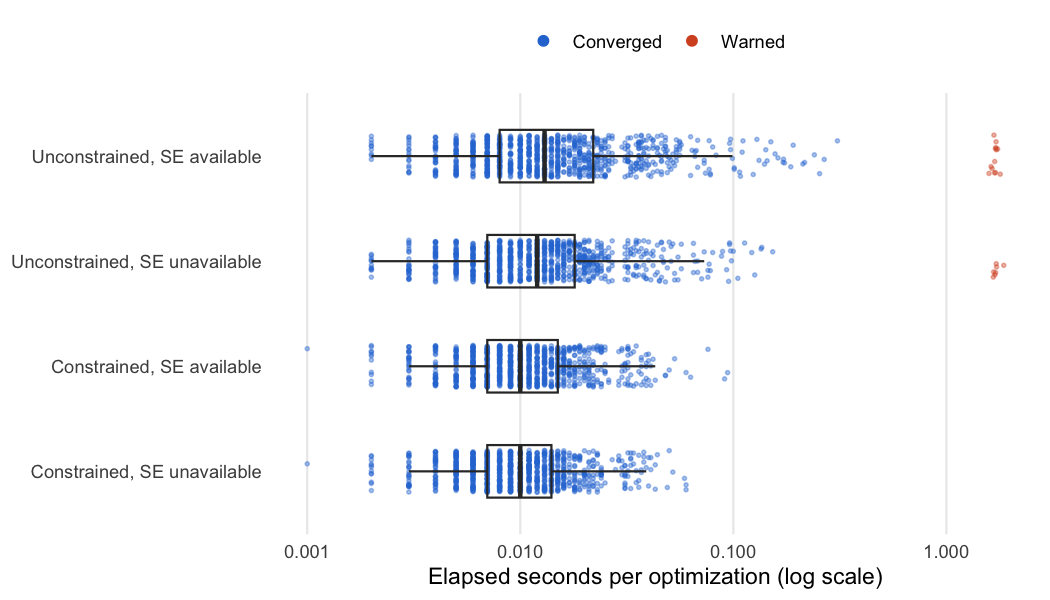
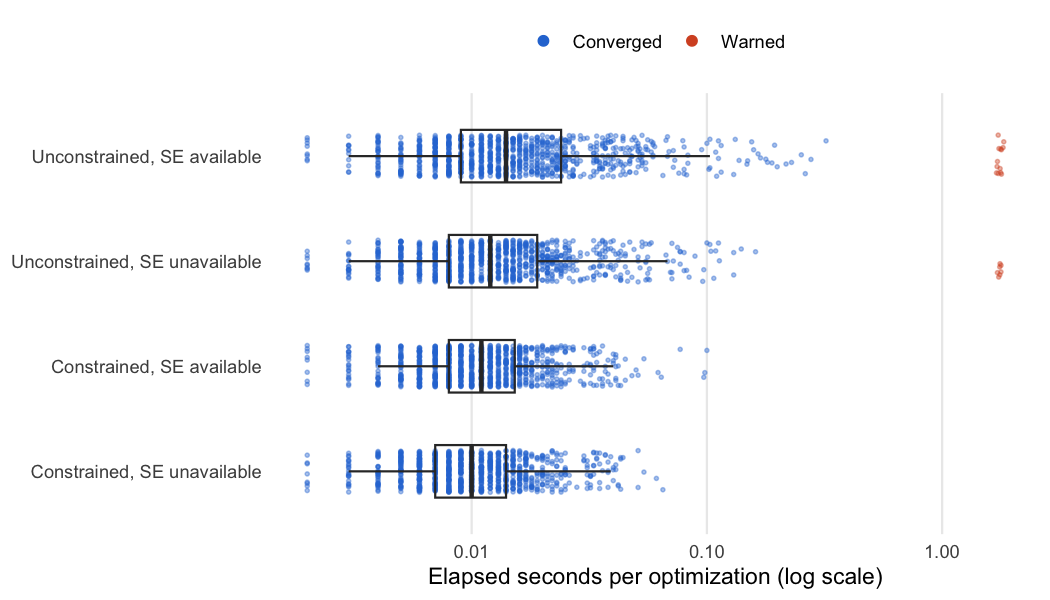
links and vignettes

diff --git a/README.md b/README.md
@@ -22,7 +22,7 @@ pak::pak("wlandau/retrogroup")
 
 ## Documentation
 
-The [documentation website](https://wlandau.github.io/retrogroup) provides a [function reference](https://wlandau.github.io/retrogroup/reference/index.html), usage tutorial, and [vignettes](https://wlandau.github.io/retrogroup/articles/index.html).
+The [documentation website](https://wlandau.github.io/retrogroup/) provides a [function reference](https://wlandau.github.io/retrogroup/reference/index.html), usage tutorial, and [vignettes](https://wlandau.github.io/retrogroup/articles/index.html).
 The vignettes explain the method and check its performance:
 
 - Methods

diff --git a/NEWS.md b/NEWS.md
@@ -1,6 +1,6 @@
 # retrogroup 0.0.2
 
-* Prepare for open-source release: adopt the MIT license and move the source code and documentation website to <https://github.com/wlandau/retrogroup> and <https://wlandau.github.io/retrogroup>.
+* Prepare for open-source release: adopt the MIT license and move the source code and documentation website to <https://github.com/wlandau/retrogroup> and <https://wlandau.github.io/retrogroup/>.
 
 # retrogroup 0.0.1
 
